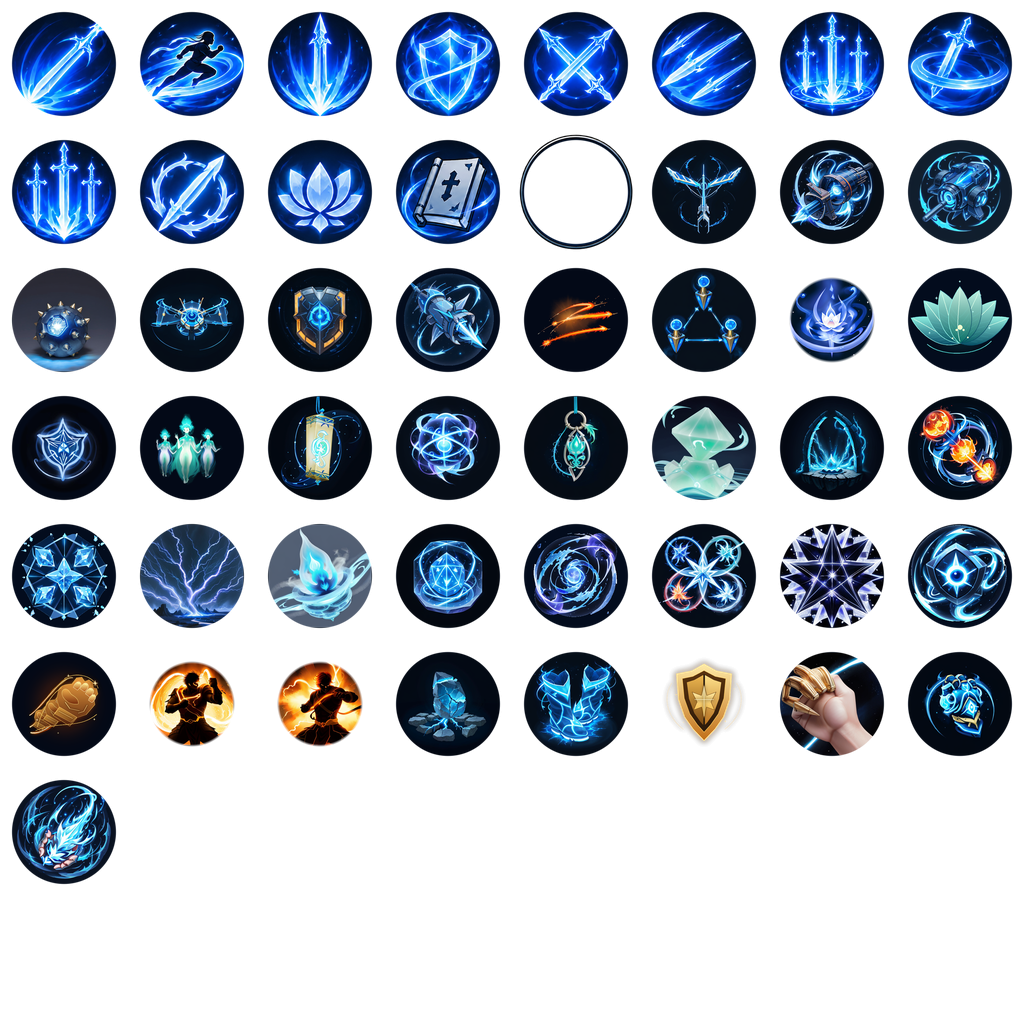
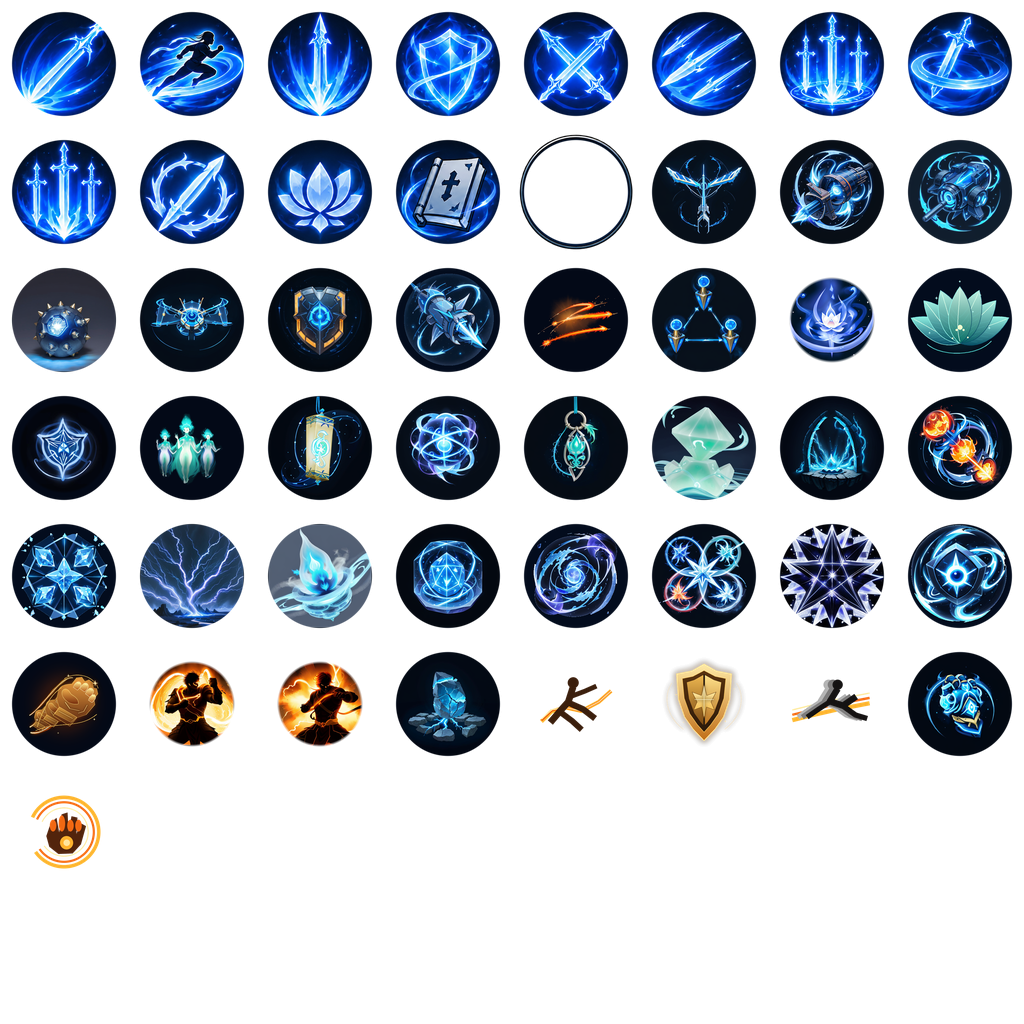
chore: lgo autopilot checkpoint character-hub-v46 - character-hub-fireline-cleanse-paint-v45
Status: CONTINUE
Phase: character-hub-skill-art
Next action: Đối chiếu Bộ Pháp/Đột Kích/Quyền Ý với đúng vùng demo Võ và thay hình tác động sai; không alias gameplay/gamma hoặc dùng output bị loại.
Reason: Hai artwork mới đã kiểm nguồn và Player; frame/content/actor giữ nguyên. Toàn mỹ thuật chưa hoàn tất.

Validation:
- Graphics EditMode315/315 không fail/skip
- Python88/88=79repo+9source
- Một build {'errors': 0, 'warnings': 0}; hai selection passes;264PNG,10ảnh đã xem
- Hai module thay;47module/frame/library/actor nguyên
- Native RGBA và portable PNG replay exact; source ZIP integrity

Changed region(s): [[0.75, 0.625, 0.875, 0.75], [0.5, 0.625, 0.625, 0.75], [0.0, 0.75, 0.125, 0.875]]

diff --git a/docs/execution/PROJECT-STATE.md b/docs/execution/PROJECT-STATE.md
@@ -1,3 +1,10 @@
+## Character Hub v46 — Võ mobility/intent visual-only alignment — 2026-09-17
+
+- Baseline d25d5d52; same branch/worktree. Mapped Bộ Pháp→Bước Thần, Đột Kích→Lướt áp sát, Quyền Ý→Ý Chí Võ Đạo as visual-only references; no rename/level/gameplay alias.
+- Rejected model drafts with rectangular guide backgrounds. Runtime uses native transparent RGBA redraws with one Võ palette/canvas and the existing shared frame. Exactly3 skill modules changed;46 modules/frame preserved.
+- Gates: packer/shared-UI Python PASS, Unity EditMode315/315, one Player build succeeded,3 viewport captures ×44 frames. Eye review confirms no square backdrop/cut overlap; Bộ Pháp/Đột Kích remain darker/simpler than demo.
+- Not final: Liên Kích/Chấn Kình and other class motifs still need art work; five-tab Character Hub not accepted. Continue visual fixes, no gamma/actor/gameplay changes.
+
 ## Character Hub v45 — hai artwork Skill và alpha đúng nguồn — 2026-09-17
 
 - Giữ Character Hub, worktree/branch/SID/task hiện hành; baseline 82e31f80. Đã tiếp nhận và kiểm các source v45 còn dở, không restore source hoặc mở task khác.

diff --git a/docs/execution/NEXT-ACTION.md b/docs/execution/NEXT-ACTION.md
@@ -1,3 +1,11 @@
+# NEXT ACTION — Character Hub / continue visual skill alignment
+
+## v46 next
+1. Refine Võ Liên Kích and Chấn Kình against pinned Liên Quyền/Xung Kích demo motifs; reject hand/armor/object substitutes.
+2. Revisit Bộ Pháp/Đột Kích at 64–128px: increase readable action silhouette by redraw, not gamma/UI scale; keep visual-only mapping and shared frame.
+3. Re-audit Hỏa Tuyến/Thanh Tẩy together with the new Võ group for line-weight consistency.
+4. Only build/capture again when runtime artwork changes; preserve actor, runtime IDs/names/levels and exact ownership.
+
 # NEXT ACTION — Character Hub / tiếp tục hoàn thiện artwork Skill
 
 ## Active
